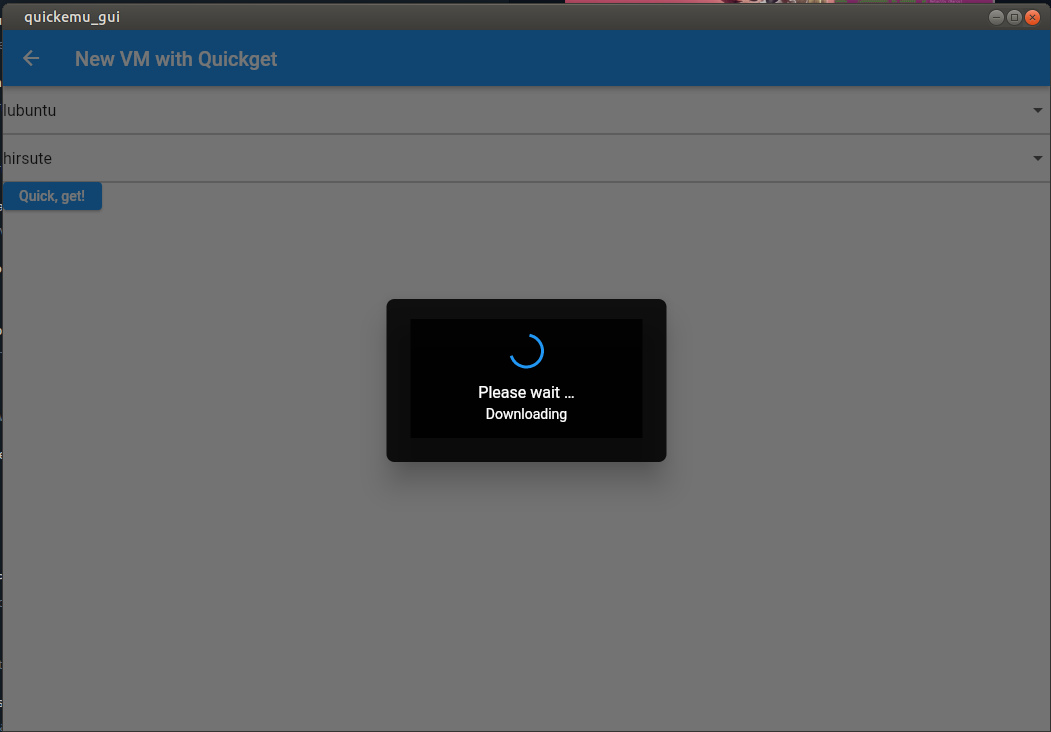
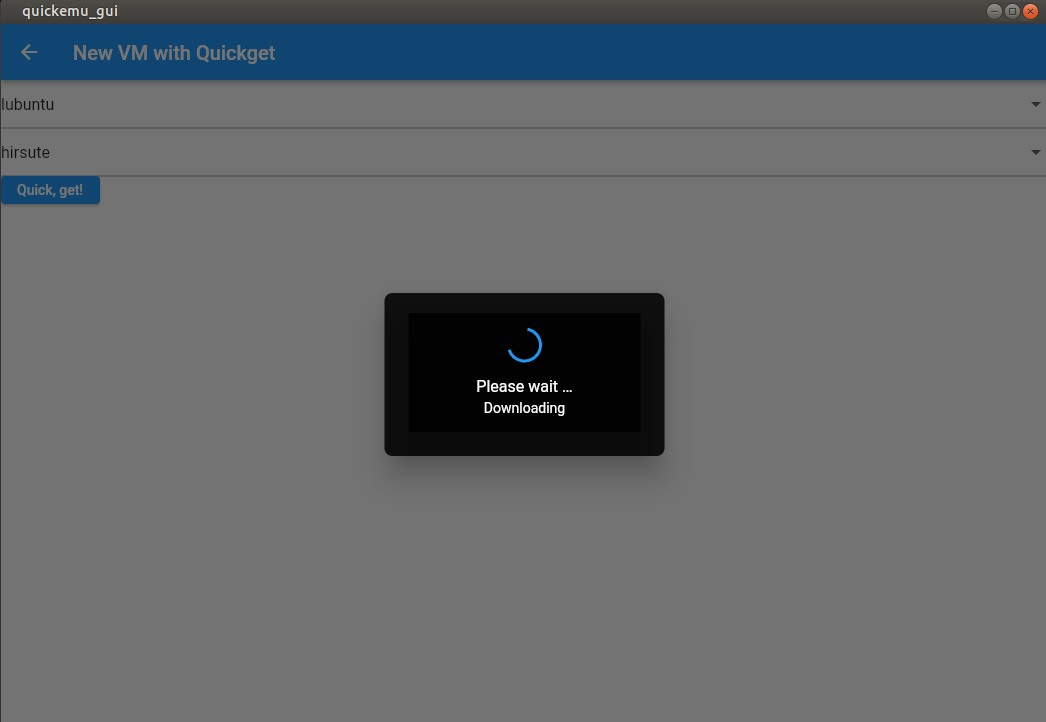
Tweaked ReadMe to use new sorted screenshots (#9)
* sorted screenshot version

also removed png copies and tried again to crop the jpgs

* sorted screenshot version

also removed png copies and tried again to crop the jpgs

* yet more cropping

diff --git a/README.md b/README.md
@@ -22,22 +22,22 @@ Run `quickemu_gui` from the directory where you have, or want, quickemu VMs to l
 The app will find any quickemu config files, detect whether the associated VMs are running, and
 display a list. 
 
-![Screenshot of list view on startup](screenshots/list.png "List on startup")
+![Screenshot of list view on startup](screenshots/list.jpg "List on startup")
 
 
 VMs can be started or stopped using the "Play" button on the list. VMs that
 are currently running will have a green "Play" button.
 
 New VMs can be added using `quickget` but tapping the "+" button. 
-![adding a VM](screenshots/newvm0.png "Add a vm")
+![adding a VM](screenshots/newvm0.jpg "Add a vm")
 
 Select the OS and release, 
-![adding a VM](screenshots/newvm1.png "Choosing release") 
-![adding a VM](screenshots/newvm2.png "Choosing release")
-![adding a VM](screenshots/newvm3.png "Choosing release")
+![adding a VM](screenshots/newvm1.jpg "Choosing release") 
+![adding a VM](screenshots/newvm2.jpg "Choosing release")
+![adding a VM](screenshots/newvm3.jpg "Choosing release")
 then
 press the "Quick, get!" button. 
-![getting a VM](screenshots/newvm5.png "Getting and new VM")
+![getting a VM](screenshots/newvm5.jpg "Getting and new VM")
 Wait for the OS image to download, and it will be added to your
 list.
-![yet another VM](screenshots/newvm6.png "One more VM")
+![yet another VM](screenshots/newvm6.jpg "One more VM")
